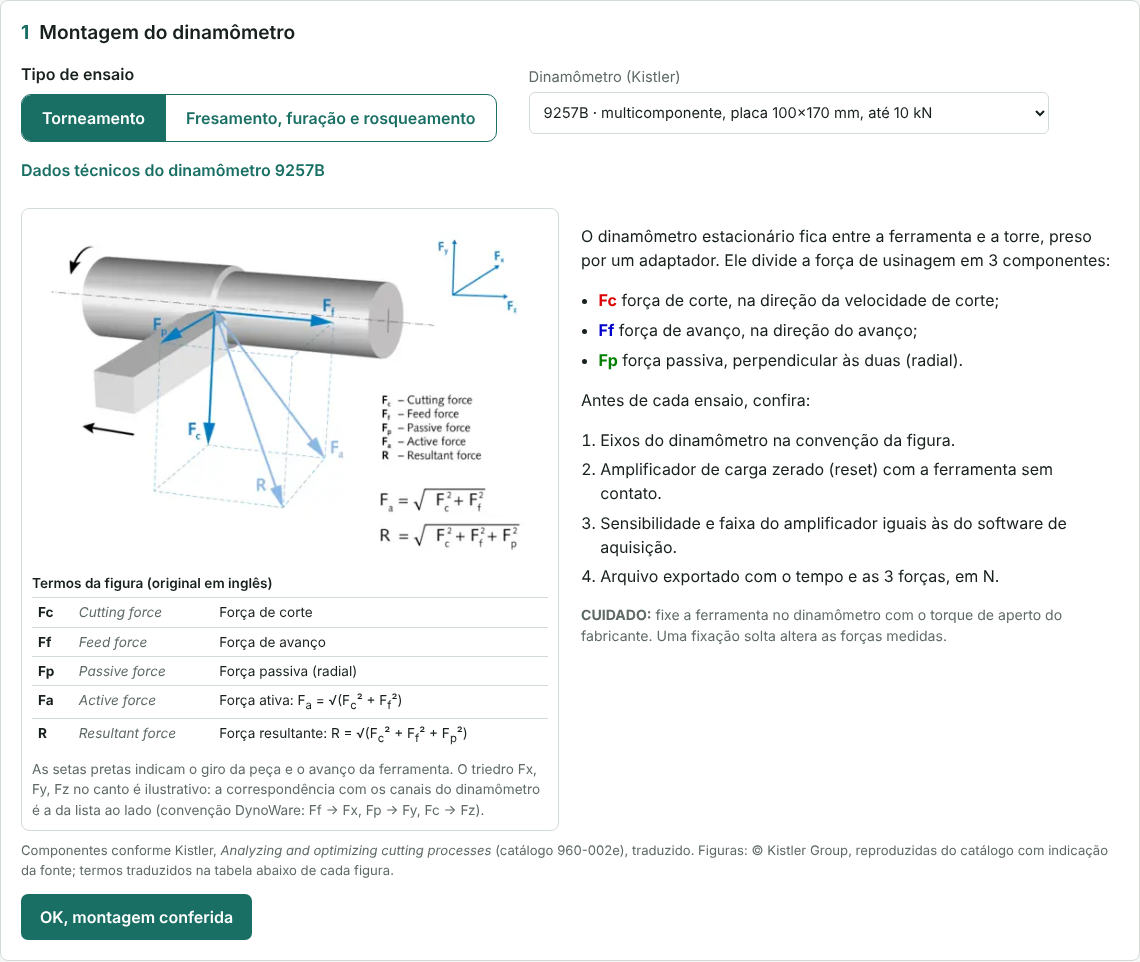
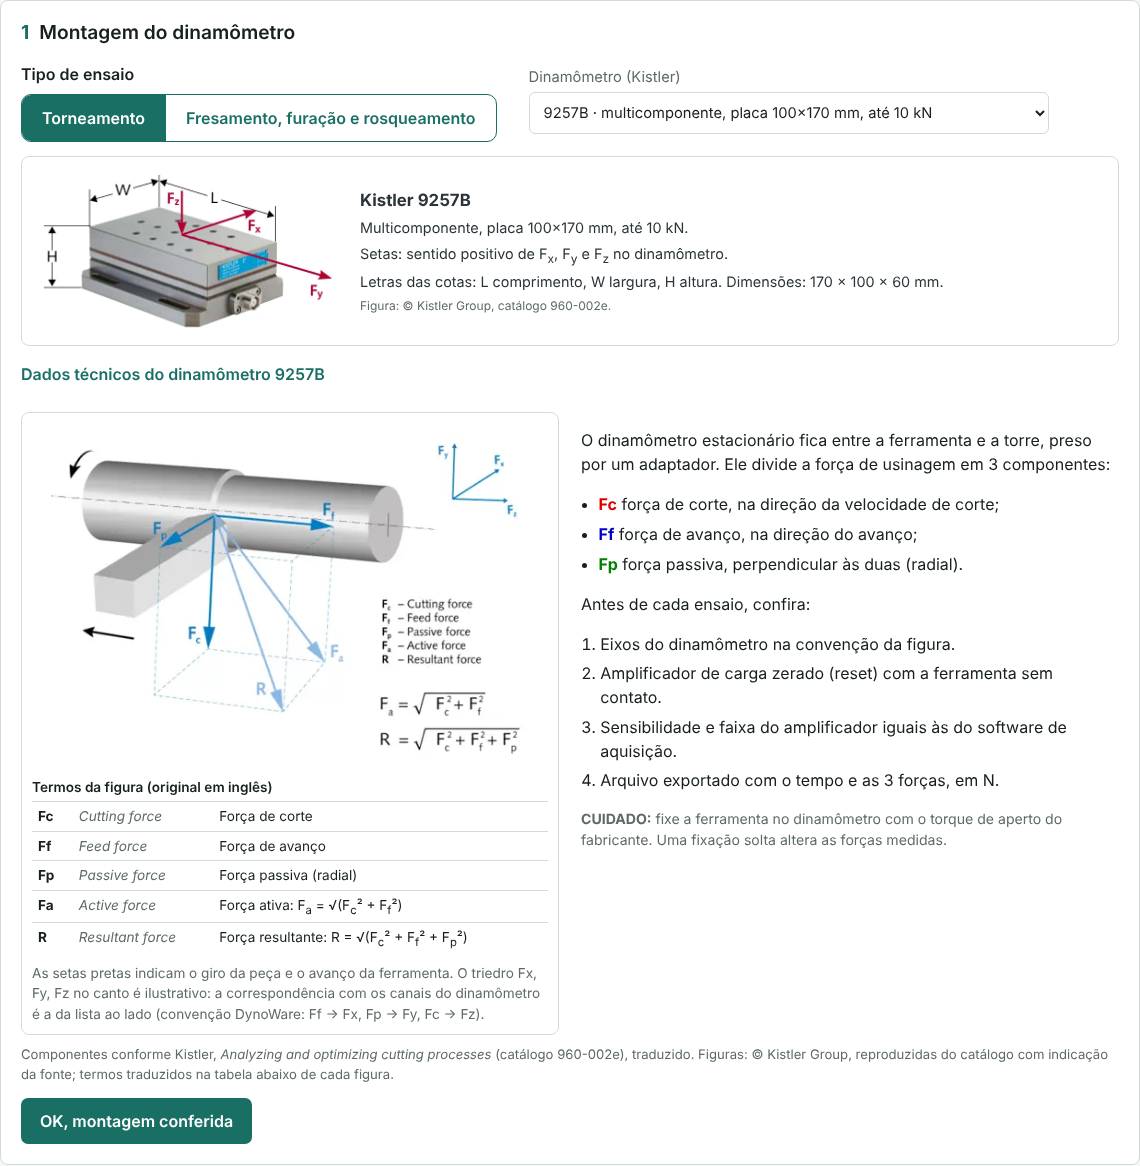
feat: figura de cada dinamômetro Kistler na etapa 1 do módulo de forças
- forcas/img/dinamometros/*.webp: figuras do catálogo 960-002e (9257B,
  9129AA, 9119AA2, 9109AA, 9139AA, 9255C, 9272) com eixos e cotas originais
- a figura, a família, o sentido das setas e as letras das cotas (pt-BR)
  mudam conforme o modelo escolhido
- manual de forças: orientação para comparar as setas com a montagem real

Claude-Session: https://claude.ai/code/session_01QVSyNw4fAqhGkbrUV6bcD3

diff --git a/forcas/js/dinamometros.js b/forcas/js/dinamometros.js
@@ -1,9 +1,11 @@
 // dinamometros.js - dinamometros estacionarios Kistler de 3 componentes (Fx, Fy, Fz).
 // Dados tecnicos traduzidos do catalogo Kistler "Analyzing and optimizing cutting
 // processes" (960-002e-02.26). Valores aproximados (≈) como no catalogo.
+// foto: figura do catalogo (eixos e cotas originais); cotas: legenda das letras em pt-BR.
 // faixa: faixa de medicao [kN] por canal {min, max}; fn: frequencia natural [kHz].
 export const DINAMOMETROS = {
   "9257B": {
+    foto: "img/dinamometros/9257B.webp", cotas: "L comprimento, W largura, H altura",
     nome: "9257B", familia: "multicomponente, placa 100×170 mm, até 10 kN",
     usos: ["torneamento", "fresamento"], faixa: { fx: [-5, 5], fy: [-5, 5], fz: [-5, 10] },
     sens: "Fx, Fy ≈ −7,5 pC/N; Fz ≈ −3,7 pC/N", fn: { x: 2.3, y: 2.3, z: 3.5 },
@@ -11,6 +13,7 @@ export const DINAMOMETROS = {
     obs: "Dinamômetro de uso geral. Fixação na mesa por flanges laterais com furos oblongos. Para torneamento: porta-ferramenta Tipo 9403.",
   },
   "9129AA": {
+    foto: "img/dinamometros/9129AA.webp", cotas: "L comprimento, W largura, H altura",
     nome: "9129AA (MidiDyn)", familia: "multicomponente, placa 90×105 mm, até 10 kN",
     usos: ["torneamento", "fresamento"], faixa: { fx: [-10, 10], fy: [-10, 10], fz: [-10, 10] },
     sens: "Fx, Fz ≈ −8 pC/N; Fy ≈ −4,1 pC/N", fn: { x: 3.5, y: 4.5, z: 3.5 },
@@ -18,6 +21,7 @@ export const DINAMOMETROS = {
     obs: "Sistema modular com adaptadores de máquina e porta-ferramentas. Com adaptador e ferramenta de tornear, a faixa e a frequência natural diminuem (Fx, Fz até 5 kN; Fy até 8 kN; fn ≈ 1,5 a 2,5 kHz).",
   },
   "9119AA2": {
+    foto: "img/dinamometros/9119AA2.webp", cotas: "L comprimento, W largura, H altura",
     nome: "9119AA2 (MiniDyn)", familia: "multicomponente, até 4 kN",
     usos: ["torneamento", "fresamento"], faixa: { fx: [-4, 4], fy: [-4, 4], fz: [-4, 4] },
     sens: "Fx, Fz ≈ −26 pC/N; Fy ≈ −13 pC/N", fn: { x: 4.3, y: 4.6, z: 4.4 },
@@ -25,6 +29,7 @@ export const DINAMOMETROS = {
     obs: "Menores dimensões de montagem. Com adaptador e ferramenta de tornear: Fx, Fz até 2 kN; Fy até 3 kN; fn ≈ 1,25 a 2,5 kHz.",
   },
   "9109AA": {
+    foto: "img/dinamometros/9109AA.webp", cotas: "S largura total, D placa de cobertura, H altura",
     nome: "9109AA (MicroDyn)", familia: "multicomponente, placa 30×30 mm, até 500 N",
     usos: ["fresamento"], faixa: { fx: [-0.5, 0.5], fy: [-0.5, 0.5], fz: [-0.5, 0.5] },
     sens: "Fx, Fy ≈ −12,5 pC/N; Fz ≈ −20 pC/N", fn: { x: 15, y: 15, z: 15 },
@@ -32,6 +37,7 @@ export const DINAMOMETROS = {
     obs: "Para microusinagem. Frequência natural acima de 15 kHz (sem massa adicional).",
   },
   "9139AA": {
+    foto: "img/dinamometros/9139AA.webp", cotas: "L comprimento, W largura, H altura",
     nome: "9139AA (MaxiDyn)", familia: "multicomponente, placa 140×190 mm, até 30 kN",
     usos: ["fresamento"], faixa: { fx: [-30, 30], fy: [-30, 30], fz: [-30, 30] },
     sens: "Fx, Fz ≈ −8,2 pC/N; Fy ≈ −4,2 pC/N", fn: { x: 2.9, y: 2.9, z: 3.0 },
@@ -39,6 +45,7 @@ export const DINAMOMETROS = {
     obs: "Compacto e robusto, para usinagem pesada.",
   },
   "9255C": {
+    foto: "img/dinamometros/9255C.webp", cotas: "L comprimento, W largura, H altura",
     nome: "9255C", familia: "multicomponente, placa 260×260 mm, até 60 kN",
     usos: ["fresamento"], faixa: { fx: [-30, 30], fy: [-30, 30], fz: [-10, 60] },
     sens: "Fx, Fy ≈ −7,9 pC/N; Fz ≈ −3,9 pC/N", fn: { x: 2.2, y: 2.2, z: 3.3 },
@@ -46,6 +53,7 @@ export const DINAMOMETROS = {
     obs: "Maior faixa de força da linha. Para usinagem pesada.",
   },
   "9272": {
+    foto: "img/dinamometros/9272.webp", cotas: "D diâmetro externo, d furo central, H altura",
     nome: "9272", familia: "4 componentes (Fx, Fy, Fz, Mz), para furação",
     usos: ["fresamento"], faixa: { fx: [-5, 5], fy: [-5, 5], fz: [-5, 20] },
     sens: "Fx, Fy ≈ −7,8 pC/N; Fz ≈ −3,5 pC/N; Mz ≈ −160 pC/N·m", fn: { x: 3.1, y: 3.1, z: 6.3 },

diff --git a/forcas/manual.html b/forcas/manual.html
@@ -212,6 +212,7 @@
   <figcaption>Figura 1 — Etapa 1 da tela: tipo de ensaio, dinamômetro, convenção dos eixos e lista de conferência.</figcaption>
 </figure>
 <p class="seg seg-nota"><strong>NOTA:</strong> Um dinamômetro estacionário de 3 componentes não mede o momento. Na furação, o momento Mc e a força de corte Fc = Mc / d (broca de 2 gumes, diâmetro d) exigem o 9272 (4 componentes) ou um dinamômetro rotativo. Este módulo lê o tempo e 3 forças.</p>
+<p>Ao escolher o dinamômetro, a tela mostra a figura do modelo no catálogo Kistler, com o sentido positivo de Fx, Fy e Fz (e de Mz, no 9272) e as letras das cotas traduzidas. Compare essas setas com a montagem real antes do ensaio.</p>
 <p class="seg seg-nota"><strong>NOTA:</strong> <strong>Dados técnicos do dinamômetro</strong> mostra a faixa de medição, a sensibilidade, a frequência natural, as dimensões e a massa do modelo escolhido (catálogo Kistler 960-002e, traduzido).</p>
 <h3 id="s7-1">7.1 Procedimento de montagem</h3>
 <p class="seg seg-adv"><strong>ADVERTÊNCIA:</strong> Pare a máquina e bloqueie o comando antes de montar o dinamômetro.</p>

diff --git a/forcas/js/app.js b/forcas/js/app.js
@@ -127,6 +127,11 @@ function mostrarFicha() {
   const fn = d.fn.x === d.fn.y ? `fn(x), fn(y) ≈ ${String(d.fn.x).replace(".", ",")} kHz; fn(z) ≈ ${String(d.fn.z).replace(".", ",")} kHz`
     : `fn(x) ≈ ${String(d.fn.x).replace(".", ",")}; fn(y) ≈ ${String(d.fn.y).replace(".", ",")}; fn(z) ≈ ${String(d.fn.z).replace(".", ",")} kHz`;
   $("fichaTit").textContent = `Dados técnicos do dinamômetro ${d.nome}`;
+  const img = $("fotoDina");
+  img.src = d.foto; img.alt = `Dinamômetro Kistler ${d.nome}, com os eixos Fx, Fy e Fz${d.nome.startsWith("9272") ? " e o momento Mz" : ""} e as cotas de dimensão.`;
+  $("fotoTit").textContent = `Kistler ${d.nome}`;
+  $("fotoFam").textContent = d.familia.charAt(0).toUpperCase() + d.familia.slice(1) + ".";
+  $("fotoCotas").textContent = `Letras das cotas: ${d.cotas}. Dimensões: ${d.dim}.`;
   tabelaHTML($("fichaTab"), ["Grandeza", "Valor"], [
     ["Faixa de medição Fx [kN]", fx("fx")], ["Faixa de medição Fy [kN]", fx("fy")], ["Faixa de medição Fz [kN]", fx("fz")],
     ["Sensibilidade", d.sens], ["Frequência natural", fn], ["Temperatura de operação", d.temp],

diff --git a/forcas/css/forcas.css b/forcas/css/forcas.css
@@ -81,3 +81,10 @@
 .termos td:nth-child(2) { color: var(--cinza, #5e6a64); white-space: nowrap; }
 .fig-kistler figcaption p { margin: 8px 0 0; }
 @media (max-width: 520px) { .termos td:nth-child(2) { display: none; } }
+
+/* foto do dinamometro escolhido (figura do catalogo Kistler) */
+.foto-dina { display: flex; flex-wrap: wrap; align-items: center; gap: 10px 22px; margin: 14px 0 4px; padding: 12px 16px; border: 1px solid var(--linha); border-radius: 8px; background: #fff; }
+.foto-dina img { display: block; width: 300px; max-width: 100%; height: auto; max-height: 190px; object-fit: contain; }
+.foto-dina figcaption { flex: 1 1 240px; display: flex; flex-direction: column; gap: 4px; color: #2b3438; font-size: .9rem; }
+.foto-dina strong { font-size: 1.05rem; }
+.foto-dina small { color: #5e6a64; }

diff --git a/forcas/index.html b/forcas/index.html
@@ -58,6 +58,16 @@
         <select id="modelo"></select>
       </label>
     </div>
+    <figure class="foto-dina" aria-live="polite">
+      <img id="fotoDina" src="img/dinamometros/9257B.webp" width="618" height="338" alt="">
+      <figcaption>
+        <strong id="fotoTit">Kistler 9257B</strong>
+        <span id="fotoFam"></span>
+        <span id="fotoEixos">Setas: sentido positivo de F<sub>x</sub>, F<sub>y</sub> e F<sub>z</sub> no dinamômetro.</span>
+        <span id="fotoCotas"></span>
+        <small>Figura: © Kistler Group, catálogo 960-002e.</small>
+      </figcaption>
+    </figure>
     <details class="ficha" id="ficha">
       <summary id="fichaTit">Dados técnicos do dinamômetro</summary>
       <div class="tabela-rolar"><table class="tabela" id="fichaTab"></table></div>
